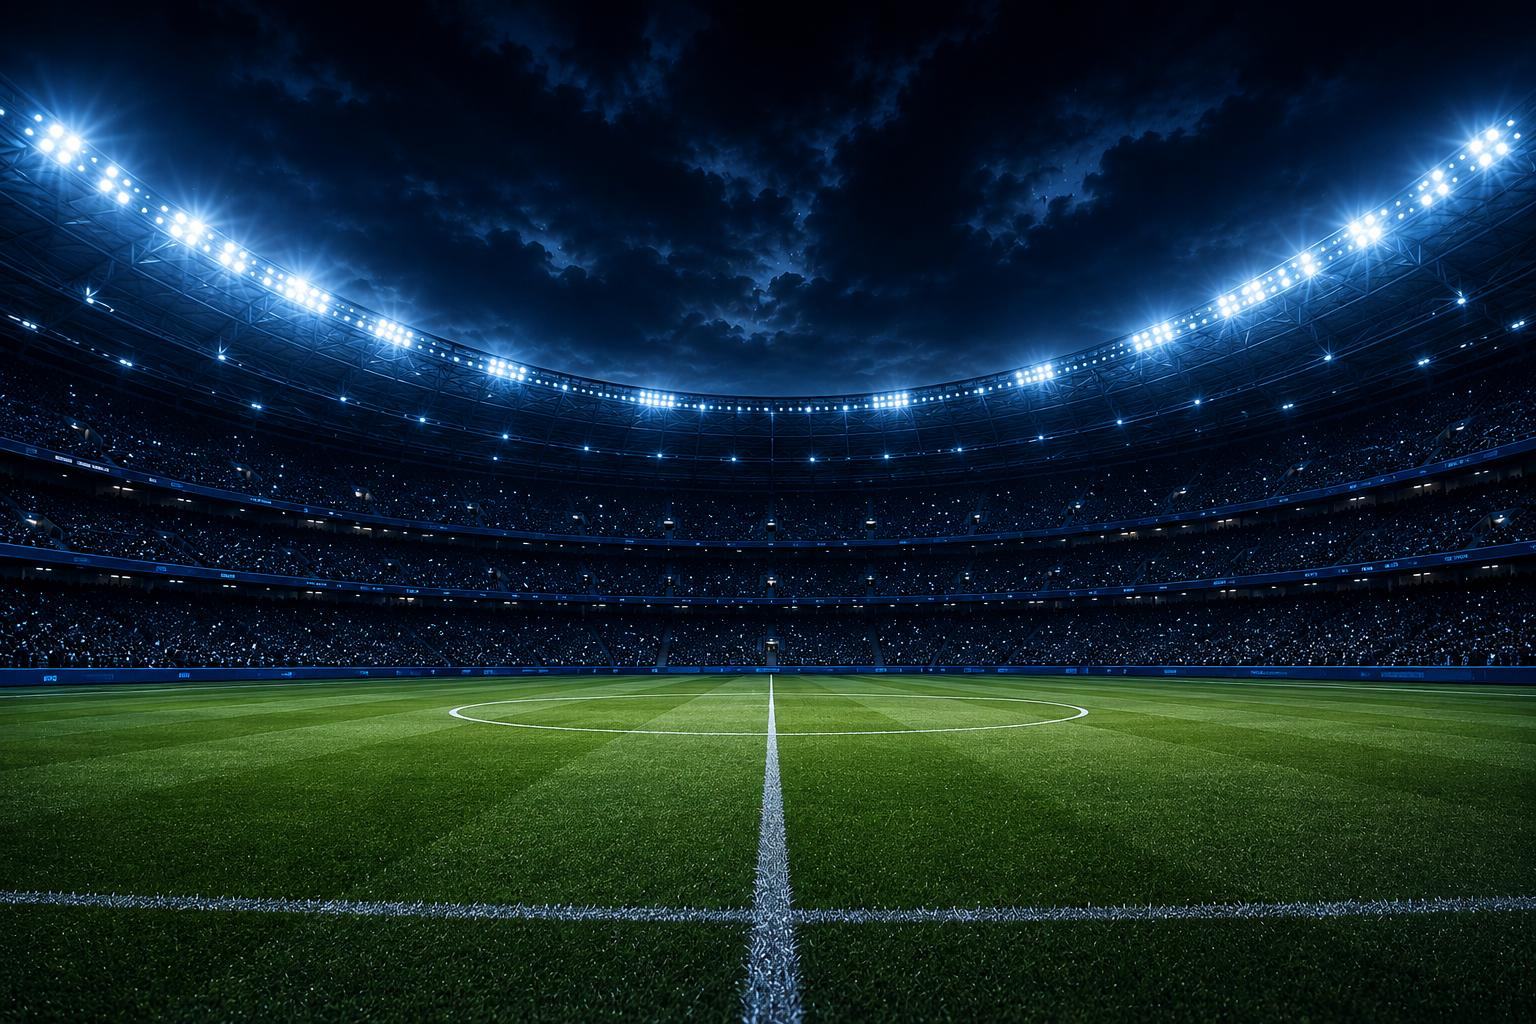
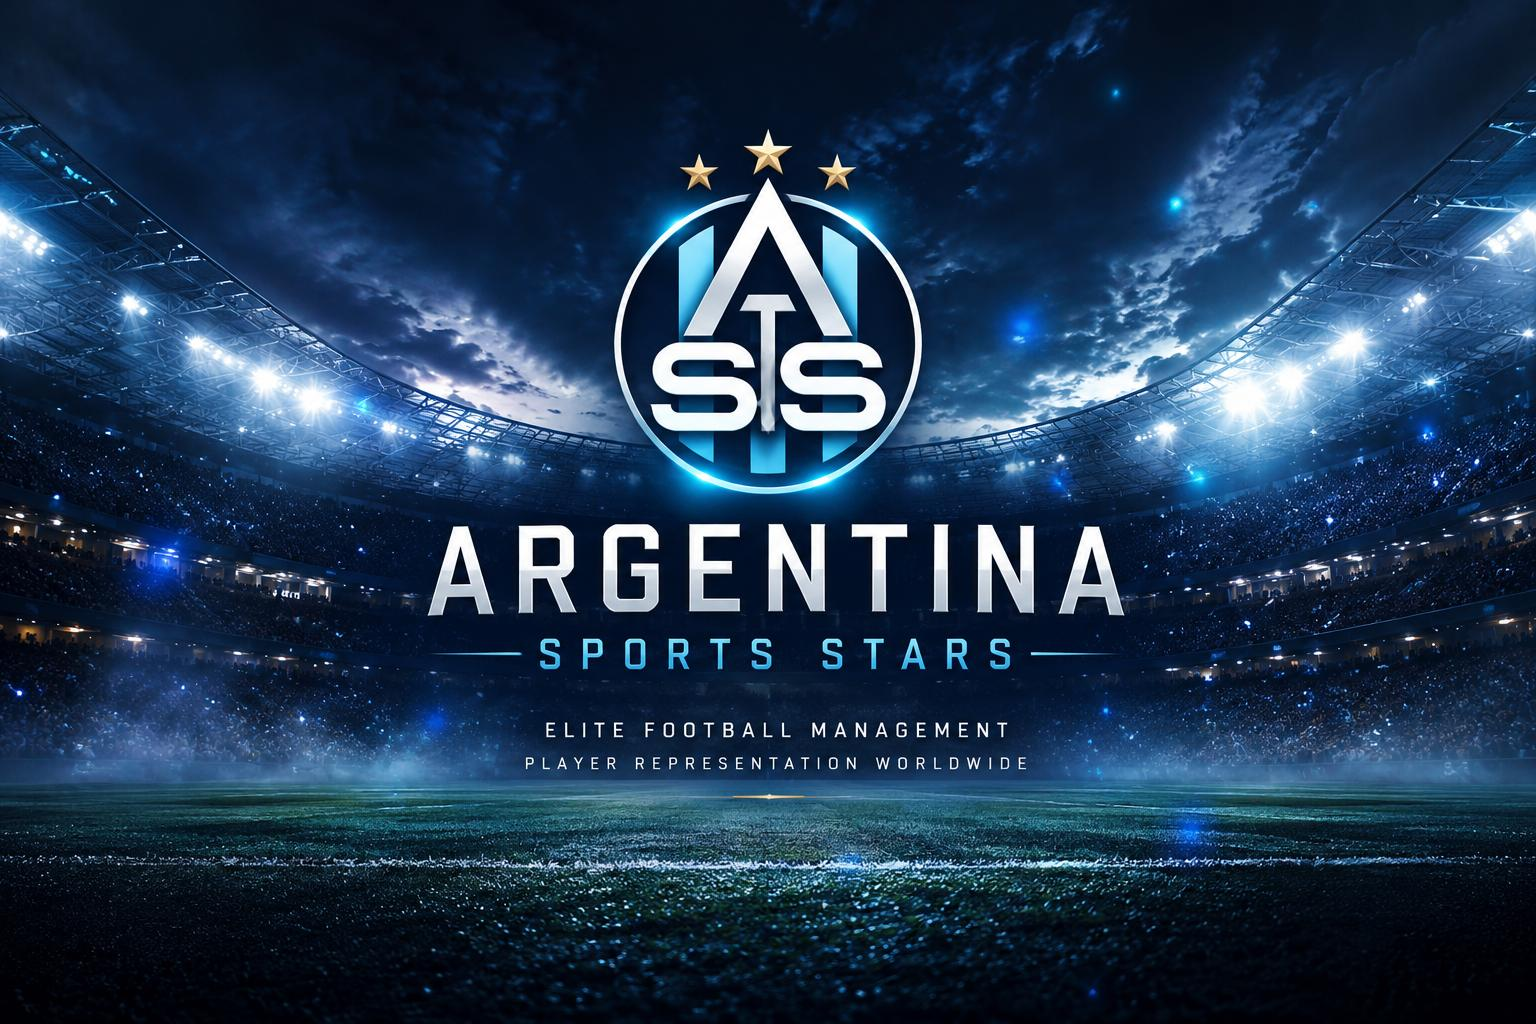
Update hero

diff --git a/style.css b/style.css
@@ -24,13 +24,34 @@ body{
 =========================== */
 
 .hero{
+
     position:relative;
     height:100vh;
+
     background:url("images/hero-bg.jpg") center center/cover no-repeat;
+
     display:flex;
     justify-content:center;
-    align-items:center;
-    text-align:center;
+    align-items:flex-end;
+
+    padding-bottom:180px;
+
+}
+
+.hero::before{
+
+    content:"";
+
+    position:absolute;
+
+    inset:0;
+
+    background:url("images/hero-bg.jpg") center center/cover no-repeat;
+
+    animation:heroZoom 30s ease-in-out infinite alternate;
+
+    z-index:-2;
+
 }
 
 .overlay{
@@ -82,41 +103,38 @@ header{
    HERO CONTENT
 =========================== */
 
-.hero-content{
-
-    position:relative;
-
-    z-index:2;
-
-    max-width:900px;
-
-    padding:20px;
-
-}
 
 .hero h1{
 
-    font-size:88px;
-    line-height:.95;
+    font-size:96px;
+
     font-weight:800;
-    margin-bottom:30px;
+
+    line-height:.92;
+
+    letter-spacing:-2px;
+
     text-transform:uppercase;
 
-    animation:titleFade 1.8s ease;
+    margin-bottom:35px;
+
+    text-shadow:
+
+    0 5px 25px rgba(0,0,0,.45);
 
 }
 
 .hero p{
 
-    font-size:24px;
+    max-width:760px;
+
+    margin:0 auto 55px;
+
+    font-size:22px;
+
+    color:#d7e3ee;
 
     line-height:1.8;
-
-    color:#d2dce7;
-
-    margin-bottom:50px;
-
-    animation:textFade 2.3s ease;
 
 }
 
@@ -172,46 +190,6 @@ box-shadow:
 
 
 /* ===========================
-   SCROLL
-=========================== */
-
-.scroll{
-
-    position:absolute;
-
-    bottom:40px;
-
-    left:50%;
-
-    transform:translateX(-50%);
-
-    display:flex;
-
-    flex-direction:column;
-
-    align-items:center;
-
-    gap:10px;
-
-    z-index:5;
-
-    color:white;
-
-    font-size:30px;
-
-    animation:float 2s infinite;
-
-}
-
-.scroll span{
-
-    font-size:12px;
-
-    letter-spacing:4px;
-
-}
-
-/* ===========================
    RESPONSIVE
 =========================== */
 
@@ -229,18 +207,6 @@ height:60px;
 
 }
 
-.hero h1{
-
-font-size:54px;
-
-}
-
-.hero p{
-
-font-size:18px;
-animation:textFade 2.3s ease;
-
-}
 
 .btn{
 
@@ -252,22 +218,6 @@ padding:16px 34px;
 
 /* HERO LOGO */
 
-.hero-logo{
-
-    width:260px;
-    margin-bottom:40px;
-
-    filter:
-    drop-shadow(0 0 20px #2EB8FF)
-    drop-shadow(0 0 60px rgba(46,184,255,.55));
-
-    animation:
-    logoFade 1.5s ease,
-    logoFloat 5s ease-in-out infinite;
-
-    transition:.3s;
-
-}
 
 .hero-logo:hover{
 
@@ -362,24 +312,6 @@ padding:16px 34px;
 }
 
 
-@keyframes logoFade{
-
-    from{
-
-        opacity:0;
-        transform:translateY(-40px) scale(.8);
-
-    }
-
-    to{
-
-        opacity:1;
-        transform:translateY(0) scale(1);
-
-    }
-
-}
-
 @keyframes logoFloat{
 
     0%{
@@ -396,44 +328,6 @@ padding:16px 34px;
 
 }
 
-
-@keyframes titleFade{
-
-    from{
-
-        opacity:0;
-        transform:translateY(50px);
-
-    }
-
-    to{
-
-        opacity:1;
-        transform:none;
-
-    }
-
-}
-
-
-@keyframes textFade{
-
-    from{
-
-        opacity:0;
-        transform:translateY(30px);
-
-    }
-
-    to{
-
-        opacity:1;
-
-        transform:none;
-
-    }
-
-}
 
 
 @keyframes buttonFade{
@@ -477,27 +371,6 @@ padding:16px 34px;
 }
 
 
-@keyframes float{
-
-    0%{
-
-        transform:translate(-50%,0);
-
-    }
-
-    50%{
-
-        transform:translate(-50%,12px);
-
-    }
-
-    100%{
-
-        transform:translate(-50%,0);
-
-    }
-
-}
 
 /* MENU BUTTON */
 
@@ -548,58 +421,19 @@ padding:16px 34px;
 
 }
 
-.mouse{
 
-    width:34px;
-    height:56px;
+@keyframes heroZoom{
 
-    border:2px solid white;
+    from{
 
-    border-radius:30px;
+        transform:scale(1);
 
-    position:relative;
+    }
 
-}
+    to{
 
-.mouse::before{
+        transform:scale(1.12);
 
-    content:"";
-
-    position:absolute;
-
-    width:6px;
-    height:10px;
-
-    background:white;
-
-    border-radius:5px;
-
-    left:50%;
-
-    top:10px;
-
-    transform:translateX(-50%);
-
-    animation:wheel 2s infinite;
-
-}
-
-@keyframes wheel{
-
-0%{
-
-opacity:1;
-
-top:10px;
-
-}
-
-100%{
-
-opacity:0;
-
-top:30px;
-
-}
+    }
 
 }

diff --git a/index.html b/index.html
@@ -61,32 +61,10 @@
 
     <div class="overlay"></div>
 
-<div class="hero-content">
-
-    <img src="images/logo.png" class="hero-logo" alt="Argentina Sports Stars">
-
-    <h1>
-        ARGENTINA<br>
-        SPORTS STARS
-    </h1>
-
-    <p>
-        Developing Talent. Building Champions. Inspiring the Future.
-    </p>
-
     <a href="#about" class="btn">
-    JOIN OUR JOURNEY →
-</a>
+        JOIN OUR JOURNEY →
+    </a>
 
-</div>
-
-<div class="scroll">
-
-    <div class="mouse"></div>
-
-    <span>SCROLL DOWN</span>
-
-</div>
 
 </section>
 